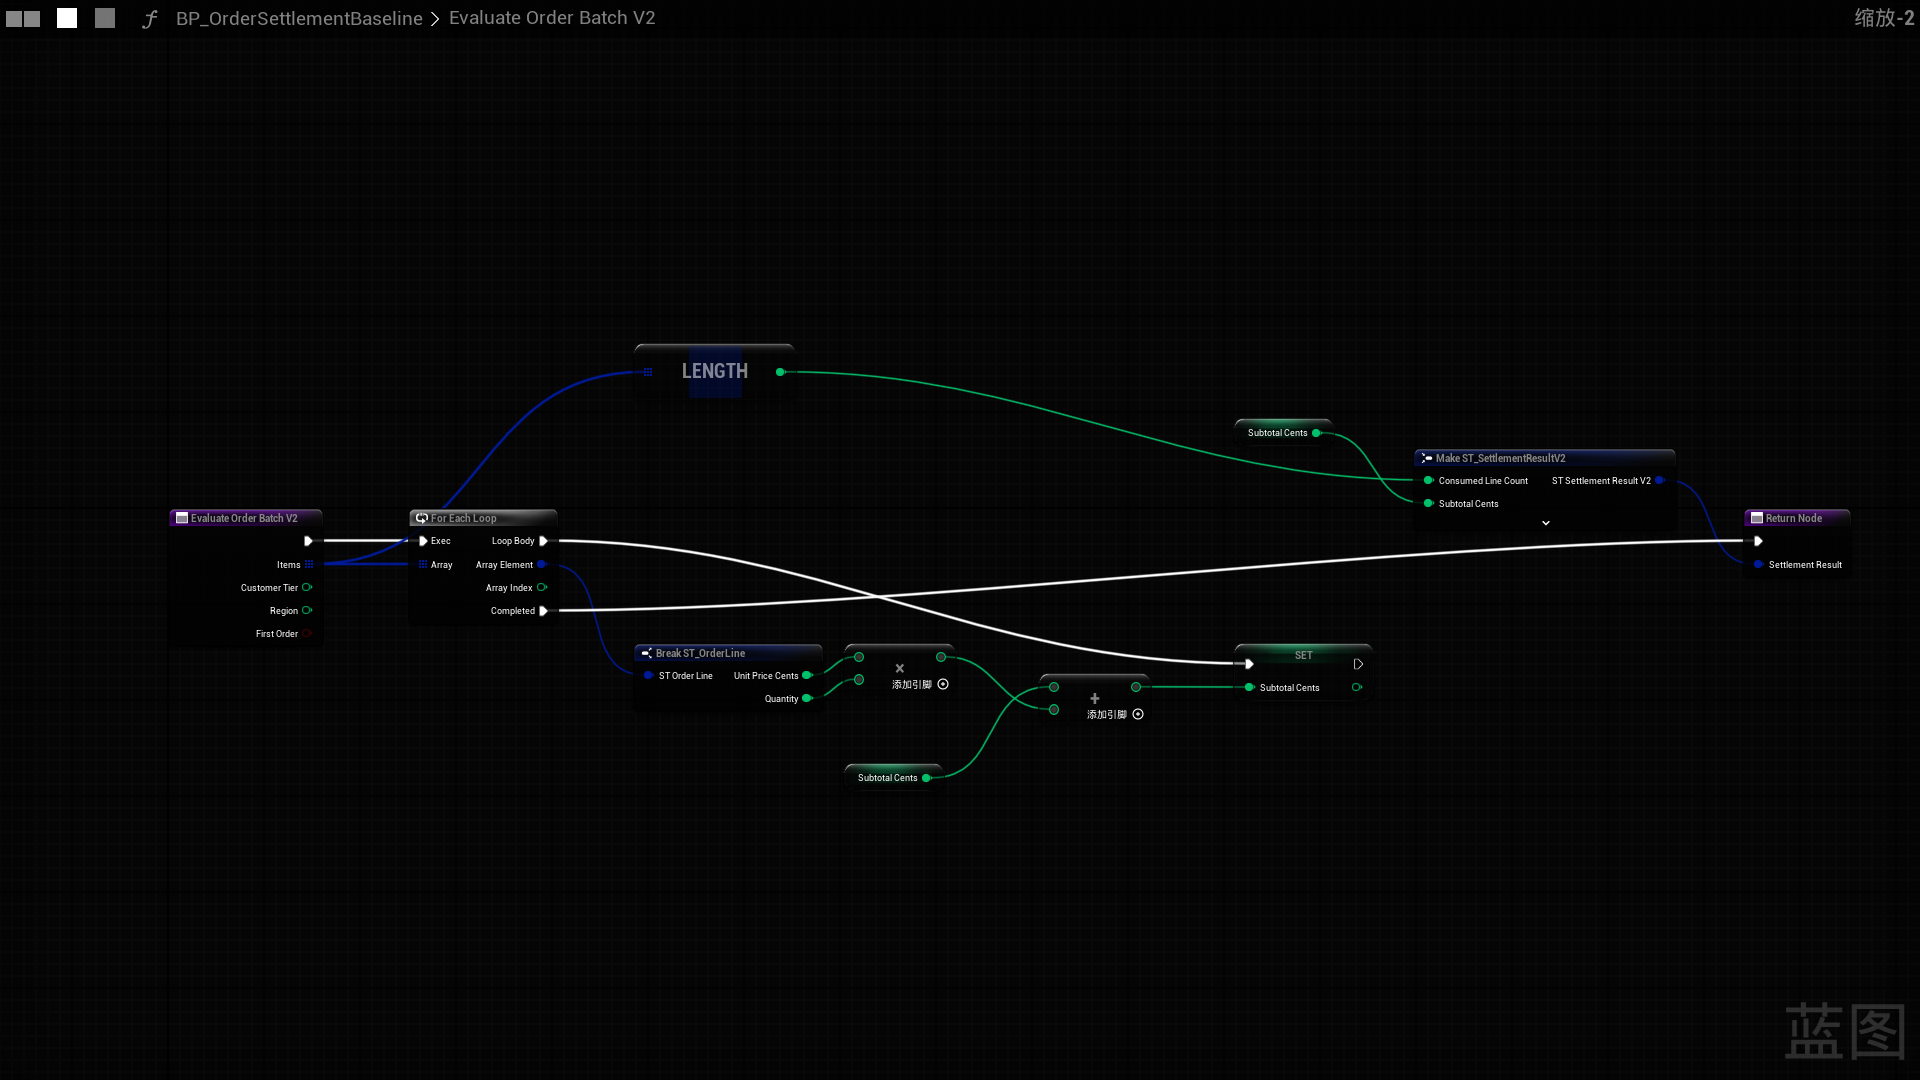
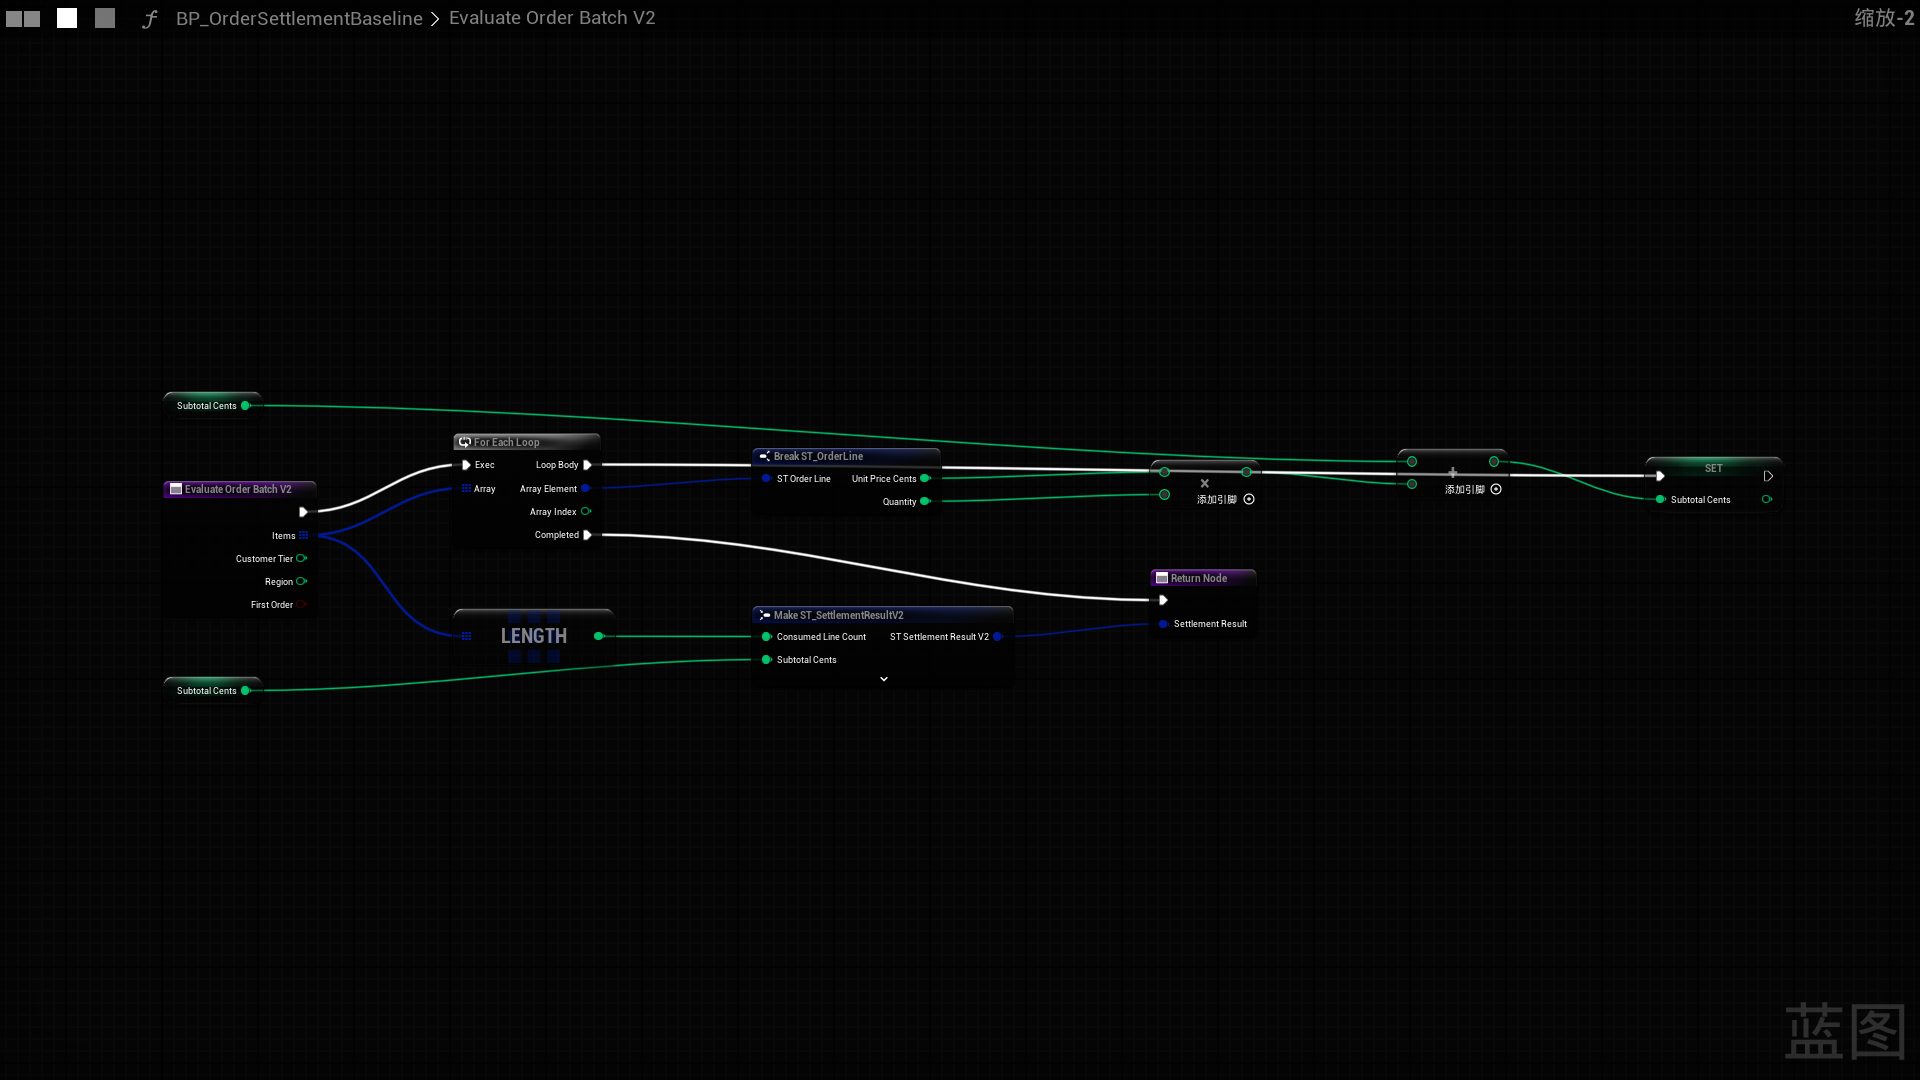
Update docs for MCPBlueprint

diff --git a/MCPBlueprint/README.md b/MCPBlueprint/README.md
@@ -65,7 +65,7 @@ Function-local variable actions are scoped by both the function graph GUID and t
 
 `FormatGraph` uses deterministic weak-component separation, SCC cycle condensation, left-to-right layered topology, barycentric crossing reduction, measured Slate node and pin-row sizes with bounded fallbacks, pin-aware vertical alignment, and component packing. `LayoutScope` accepts `WholeGraph`, `ConnectedComponent`, or `Selection`. `LayoutStyle` accepts `Balanced` (default general-purpose spacing), `Straight` (stronger wire alignment and more vertical room), or `Compact` (smaller footprint with lighter alignment). This small preset surface is suitable for project conventions or AI skill instructions without exposing algorithm-specific weights. Whole-graph layout protects comment boxes and the nodes they currently contain. Use `bDryRun=true` to return planned positions and before/after overlap, backward-edge, crossing, long-edge, area, `FlatEdgeRatio`, `AveragePinDeltaY`, and `P95PinDeltaY` metrics without calling `Modify()` or opening an editor transaction. Optional reroute insertion is disabled by default and bounded by `MaxRerouteNodes`; its quality metrics describe the original-node plan before knot insertion.
 
-`ApplyGraphPatch` accepts `LayoutScope=Auto|CreatedNodes|ConnectedComponent|None` and the same `LayoutStyle` presets. MCP-driven placement is required to avoid overlap by default and must not silently accept an unresolved collision. A node with an explicit `Position` remains fixed. Layout failure, reroute failure, or compile failure participates in the same patch rollback. Both tools return the applied scope, style, and layout quality metrics.
+`ApplyGraphPatch` accepts `LayoutScope=Auto|CreatedNodes|ConnectedComponent|None` and the same `LayoutStyle` presets. A normal AI caller submits node logic, pin defaults, and connections while omitting `Position` and `LayoutScope`; MCPBlueprint then owns standard post-connection layering, pin ordering, spacing, and crossing reduction through the default `Auto` layout. Explicit `Position` or `None` is reserved for a user-requested fixed manual layout. MCP-driven placement is required to avoid overlap by default and must not silently accept an unresolved collision. A node with an explicit `Position` remains fixed. Layout failure, reroute failure, or compile failure participates in the same patch rollback. Both tools return the applied scope, style, and layout quality metrics.
 
 `Patch.MoveNodes` provides a bounded, explicit path for moving existing nodes when a new business block needs space or a complex graph needs staged reorganization. Each entry is `{ "NodeGuid": "...", "Position": { "X": 1200, "Y": 600 } }`. Coordinates are absolute graph units. The operation preserves each node GUID, class, pins, defaults, and every existing link; all requested moves share the graph-patch transaction, compile gate, rollback, and single Undo. Read GUIDs and coordinates with `GetGraphDetail` first. Unknown or duplicate GUIDs, non-finite/out-of-range positions, and requests beyond the shared 60-operation patch limit are rejected without partial changes.
 
